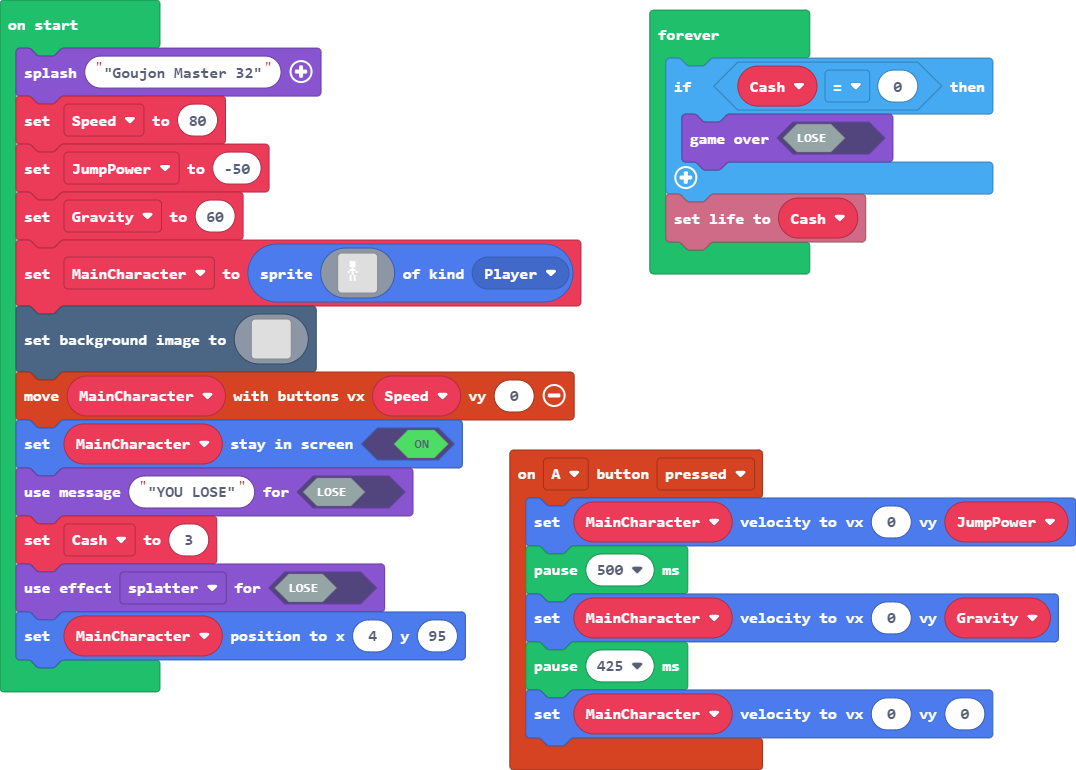
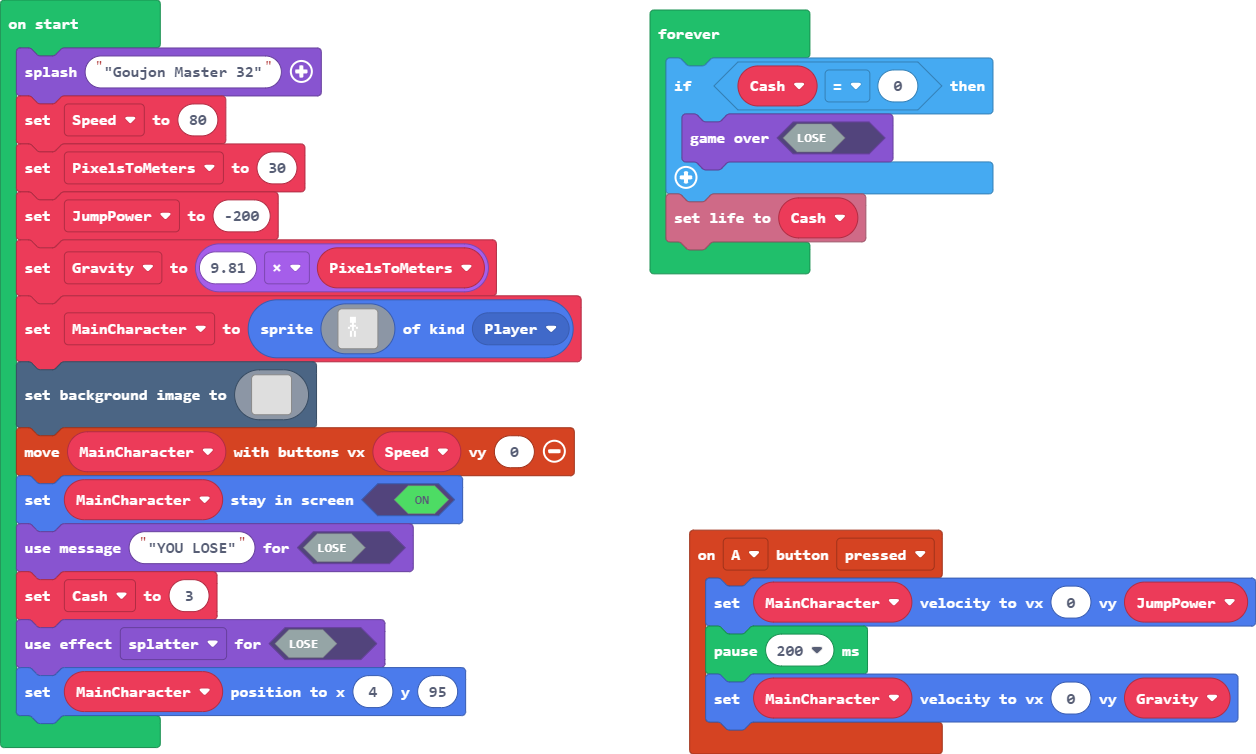
Update main.blocks, main.ts

diff --git a/main.ts b/main.ts
@@ -1,17 +1,16 @@
 controller.A.onEvent(ControllerButtonEvent.Pressed, function () {
     MainCharacter.setVelocity(0, JumpPower)
-    pause(500)
+    pause(200)
     MainCharacter.setVelocity(0, Gravity)
-    pause(425)
-    MainCharacter.setVelocity(0, 0)
 })
 let MainCharacter: Sprite = null
 let Gravity = 0
 let JumpPower = 0
 game.splash("\"Goujon Master 32\"")
 let Speed = 80
-JumpPower = -50
-Gravity = 60
+let PixelsToMeters = 30
+JumpPower = -200
+Gravity = 9.81 * PixelsToMeters
 MainCharacter = sprites.create(assets.image`Main Character`, SpriteKind.Player)
 scene.setBackgroundImage(img`
     ................................................................................................................................................................
